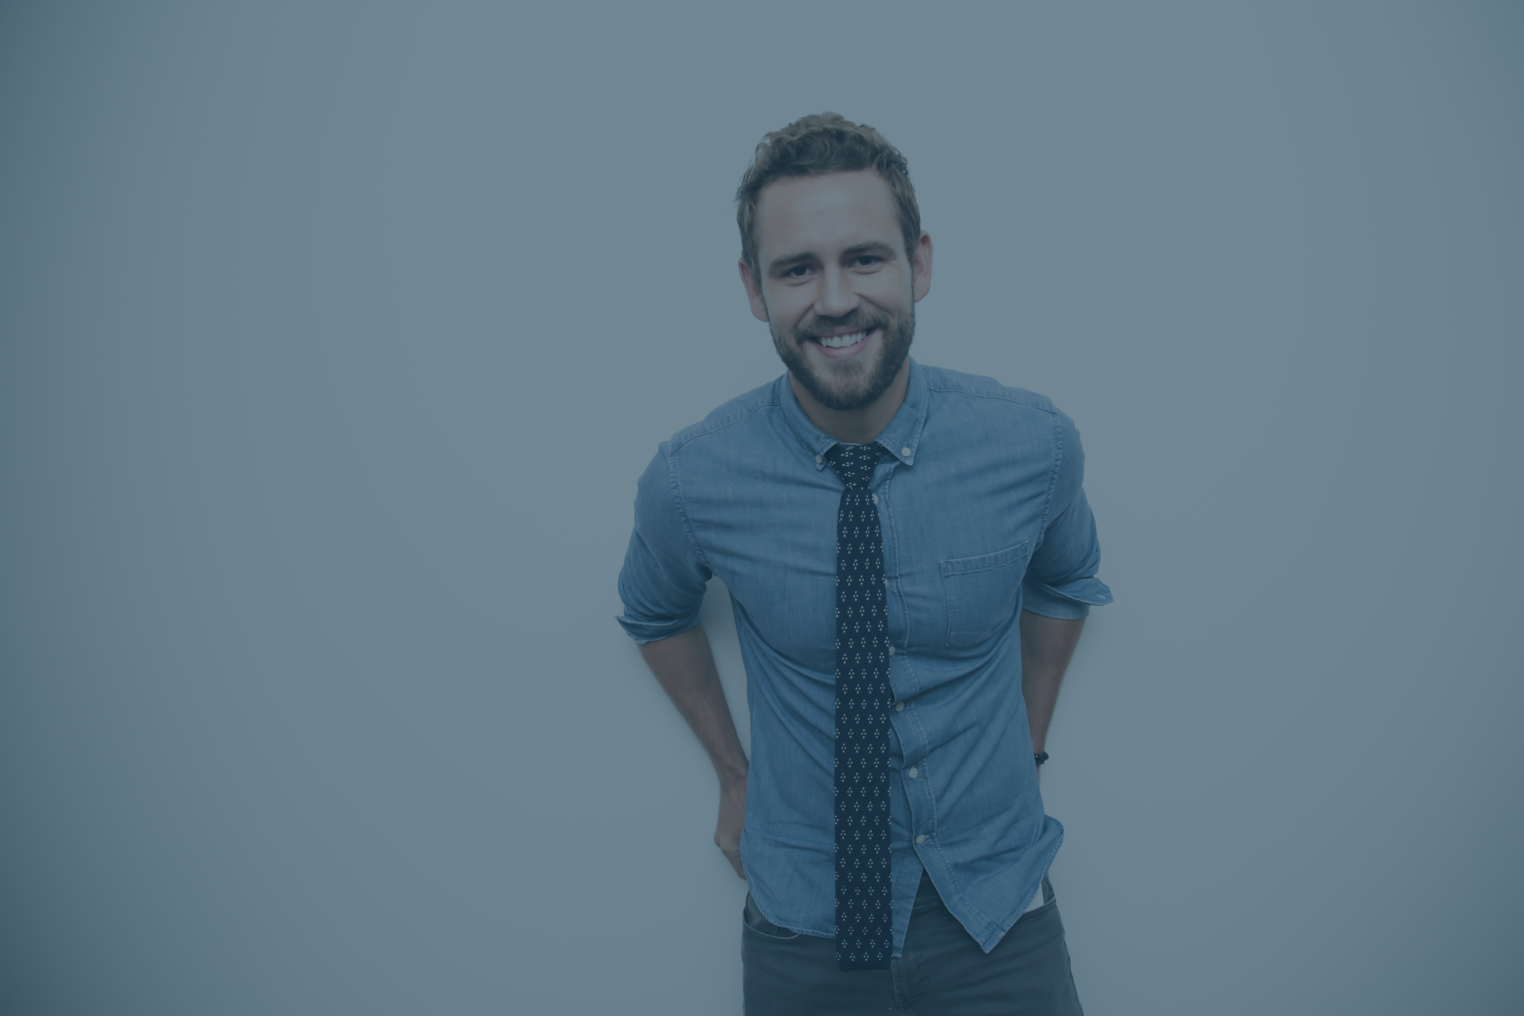
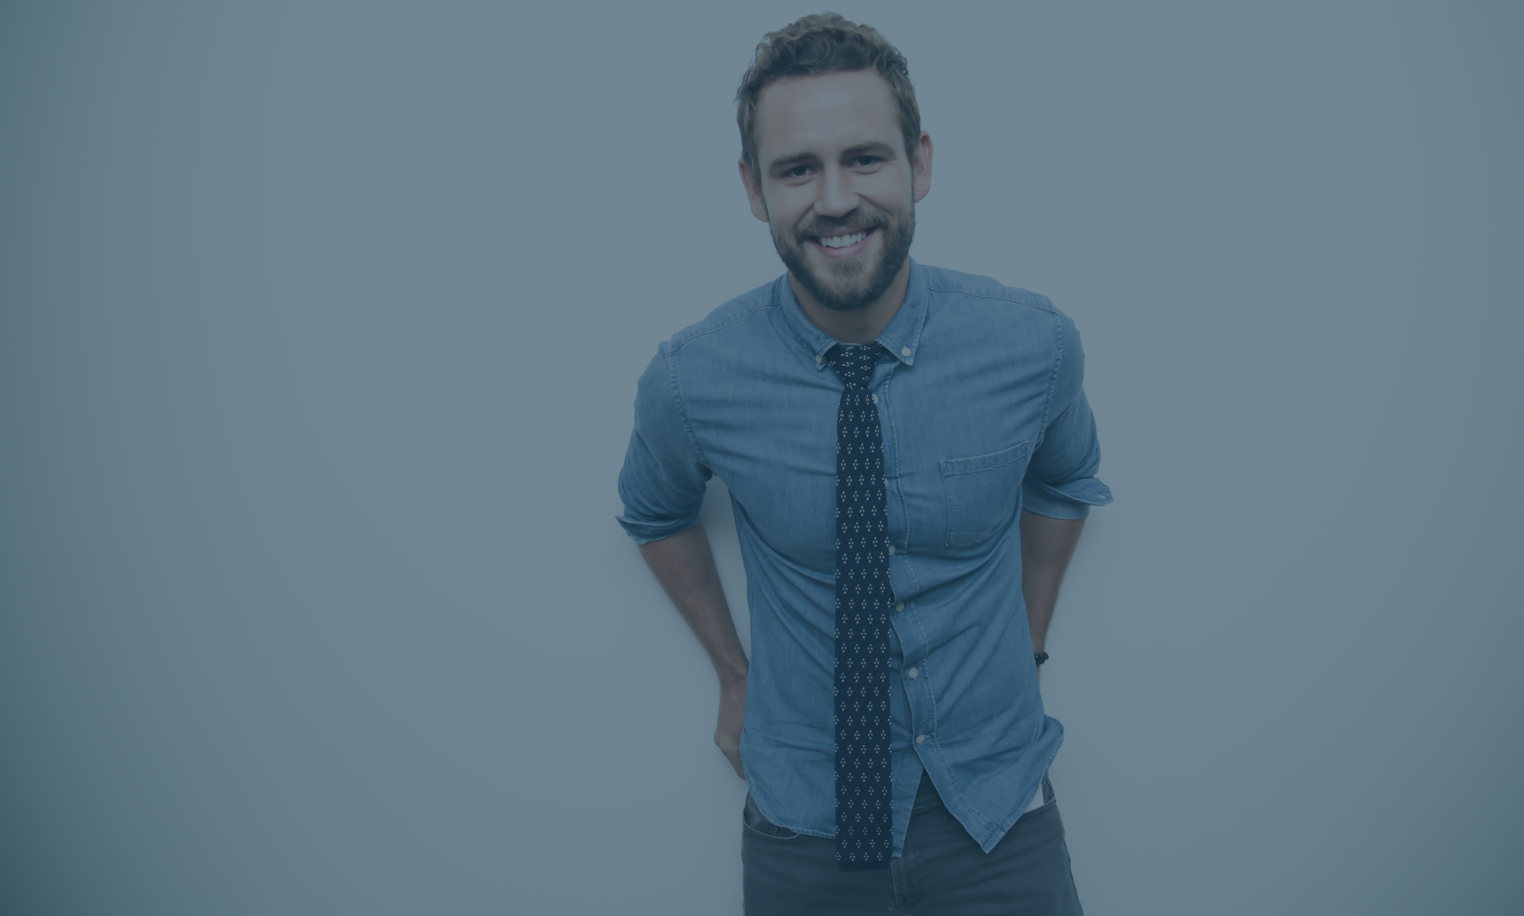
working on new hero image

Changed region(s): [[0.4009, 0.0, 0.7402, 0.9476], [0.4626, 0.7948, 0.4934, 0.8559]]

diff --git a/style.css b/style.css
@@ -237,8 +237,11 @@ hr {
 
 /* ===HOME===*/
 
-#home .hero-unit {
-	background: linear-gradient(to bottom right,#FF9587,#41D9D6);
+#home .jumbotron {
+	/* background: linear-gradient(to bottom right,#FF9587,#41D9D6);*/
+	background-image: url("img/heroimage.png");
+	padding-top: 20px;
+	width: 100%;
 }
 #home .navbar-brand {
 /*	display: inline-block;

diff --git a/index.php b/index.php
@@ -12,7 +12,7 @@ include('header_content.html');
 </head>
 <body>
 	<div id="home">
-		<div class="hero-unit">
+		<div class="jumbotron">
 			<nav class="navbar" role="navigation">
 				<div class="navbar-header">	
 					<a class="navbar-toggle" data-toggle="overlay" data-target=".navbar-collapse" href="#">
@@ -119,17 +119,18 @@ include('header_content.html');
 				<div class="container">
 					<div class="row text-center">
 						<div class="col-md-3">
+							<img class="img-responsive" src="img/tblheadline.svg" />
 						</div>
 						<div class="col-md-6">
-							<h4 id="hero-text" class="white">What brings friends together, creates healthy competition, and strengthens a relationship all while watching The Bachelor?</h4>
+							
 						</div>
 						<div class="col-md-3">
 						</div>
 					</div>
 					<div class="row">
-						<img class="img-responsive" src="img/tblheadline.png" />
+						<h4 id="hero-text" class="white">Play along as Nick Viall searches for love as the next Bachelor</h4>
 					</div>
-					<div class="row text-center">
+					<div class="row">
 					<?php if(!$IS_SIGNED_IN){ ?>
 						<button type="button" class="btn-white" data-toggle="modal" data-target="#signupmodal">SIGN UP</button>
 					
